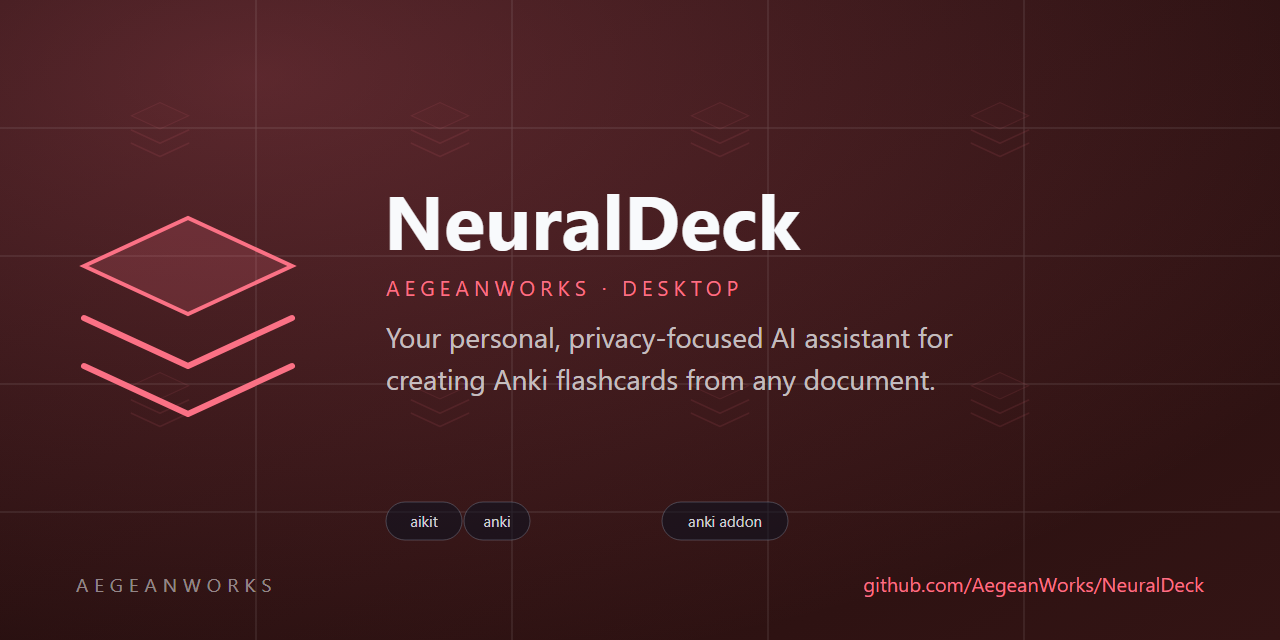
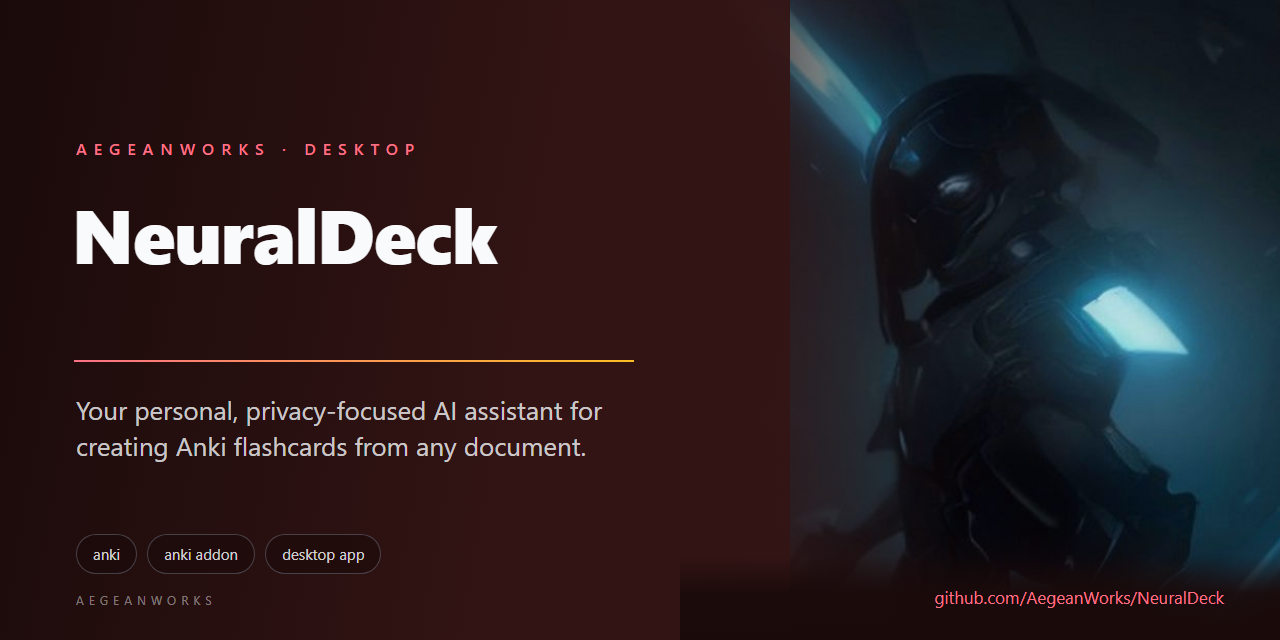
feat(brand): replace procedural marks with reviewed AI-art identities

diff --git a/README.md b/README.md
@@ -1,8 +1,8 @@
 # NeuralDeck 0.2
 
 <!-- aegean:media:start -->
-<p align="center"><img src="assets/logo.svg" alt="NeuralDeck logo" width="96" height="96"></p>
-<p align="center"><img src="assets/social-preview.svg" alt="NeuralDeck social preview" width="100%"></p>
+<p align="center"><img src="assets/logo.png" alt="NeuralDeck logo" width="96" height="96"></p>
+<p align="center"><img src="assets/social-preview.png" alt="NeuralDeck social preview" width="100%"></p>
 <!-- aegean:media:end -->
 
 [![AIKit Integrated](https://img.shields.io/badge/AIKit-integrated-6f42c1)](https://github.com/AegeanWorks/AIKit)
